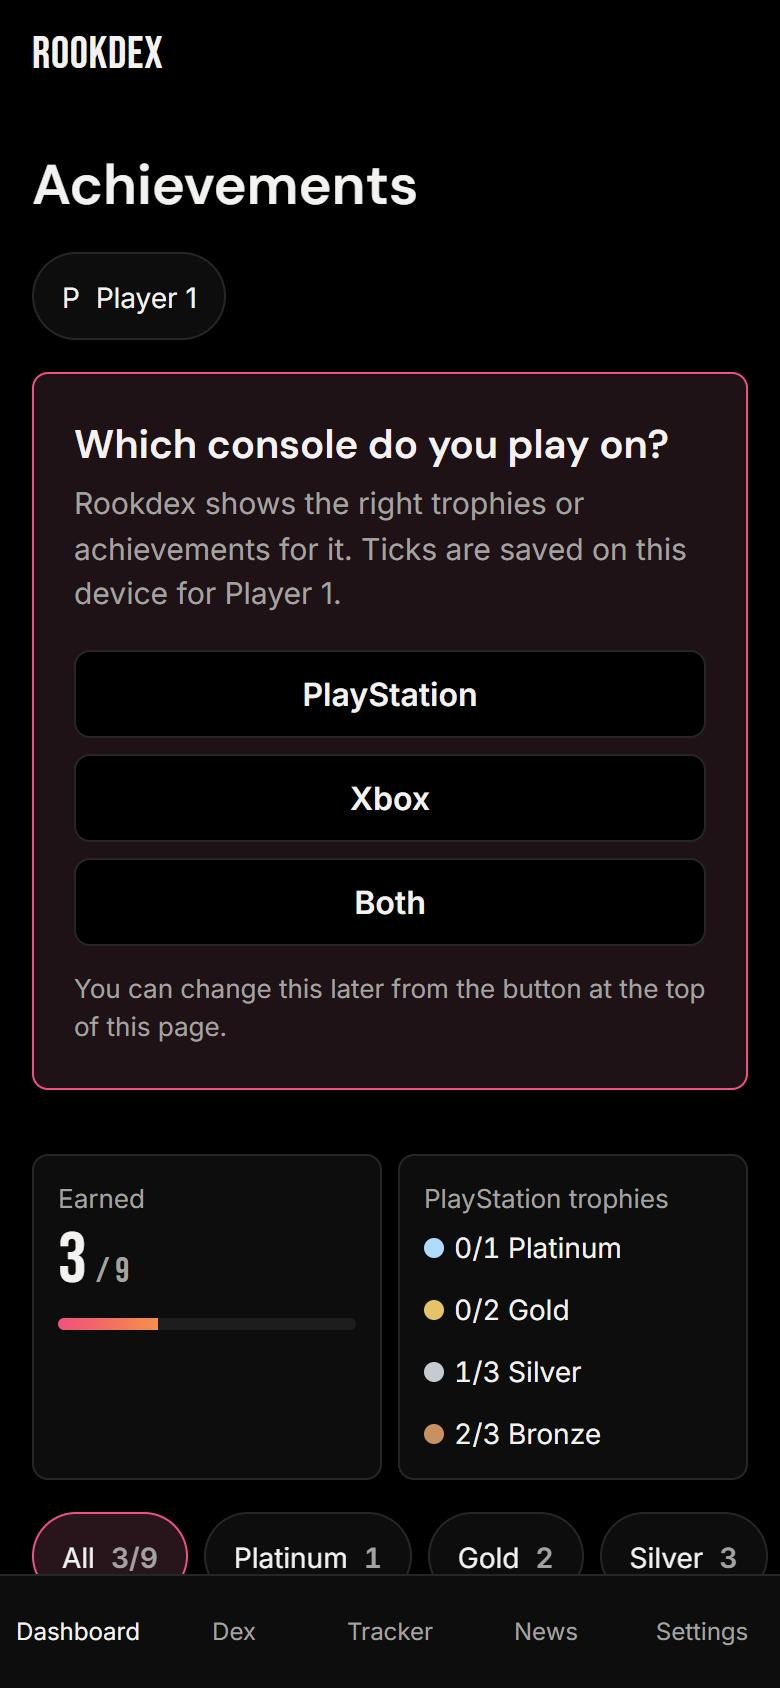
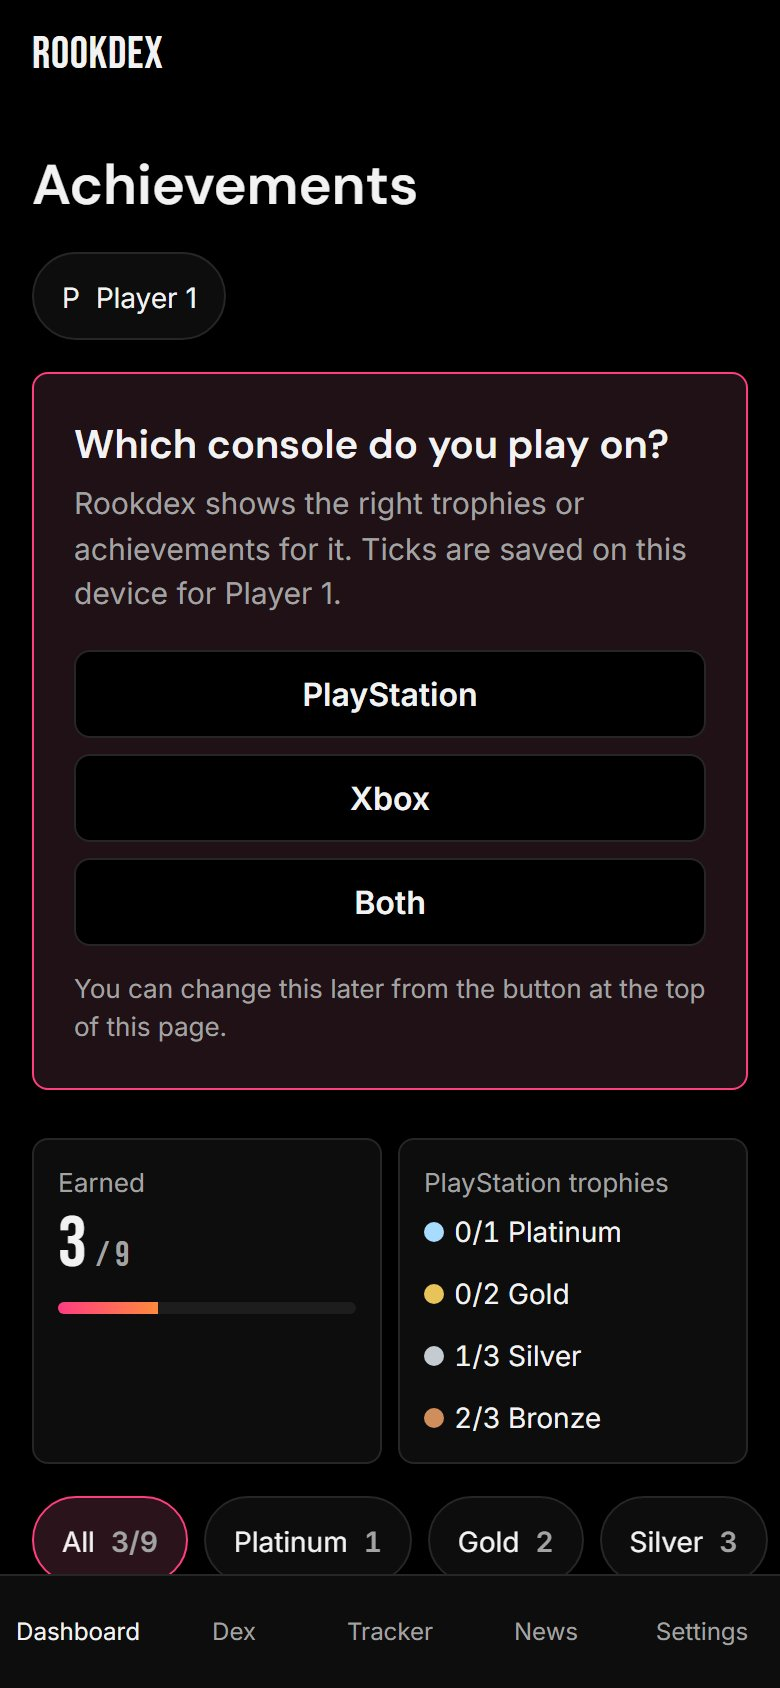
Line up the achievements rails with the list, like the tracker
The "Show" heading pushed the filter rail down, and the score rail's dl kept its default top margin, so neither side card met the list. Search now spans all three columns, and the rails and the list start on one line 32 px below it. Rails are 200 px with 48 px between the columns, as on the tracker. There is more air between the search row and the first group heading. Mockup JPGs recaptured.

diff --git a/docs/superpowers/specs/2026-11-13-achievements-design.md b/docs/superpowers/specs/2026-11-13-achievements-design.md
@@ -64,10 +64,9 @@ All CSS is mobile-first with `min-width` steps. No `max-width` queries. The page
 
 | Width | Layout |
 |---|---|
-| 320 to 767 px | One column: h1; the console pill and profile pill on one row; score cards two per row, where an odd last card (the Gamerscore card under Both) spans the row; filter chips in one horizontal scroll row; search row; grouped rows with the value under the text. |
+| 320 to 767 px | One column: h1; the console pill and profile pill on one row; score cards two per row, where an odd last card (the Gamerscore card under Both) spans the row; filter chips in one horizontal scroll row; search row; 24 px of air, then grouped rows with the value under the text. Each group heading has 32 px above it and a hairline under it. |
 | 768 to 1023 px | Same order with the text tab row on top. Rows put the value in a right-hand column. |
-| 1024 to 1599 px | Three columns: filter rail 210 px, list, score rail 230 px. Both rails are sticky. |
-| 1600 to 1919 px | Rails 230 px and 260 px. |
+| 1024 to 1919 px | Three columns, laid out like the tracker: filter rail 200 px, list, score rail 200 px, with 48 px between the columns. The search row spans all three columns. The rails and the list start on one line 32 px below it, so the All filter, the first group heading and the Earned card share a top edge. All has no heading above it, as on the tracker's rail. Both rails are sticky. In the score rail the trophy counts stack one per line. |
 | 1920 px and up | Inside each group the rows flow in two columns, so a line never runs across a 1000 px row. This matches the "more columns, not longer lines" rule. |
 
 The filter chips row at 320 px shows a partly cut chip at the right edge, so it reads as scrollable. The active chip scrolls into view when it changes.
